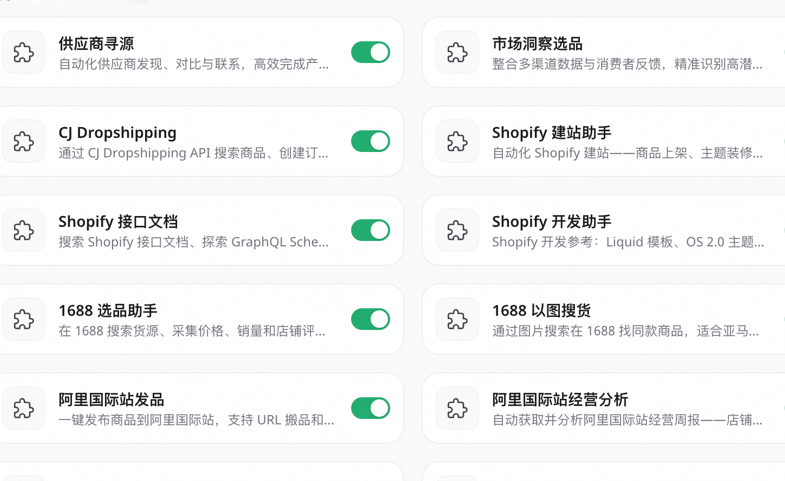
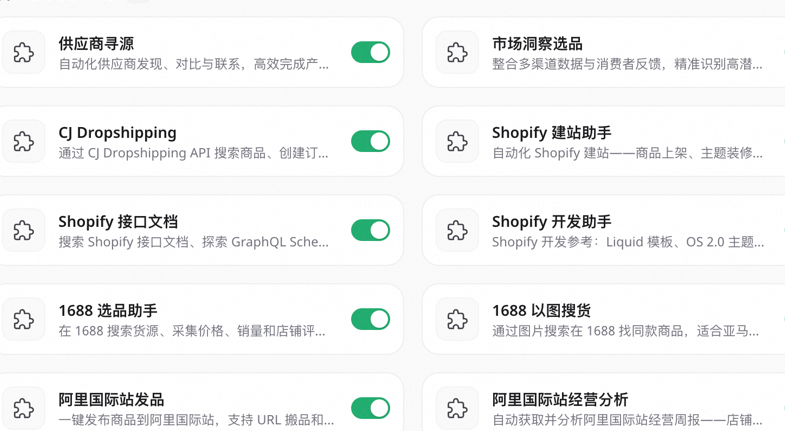
Trim shadow border + use CSS overflow-hidden + scale to remove white frame

diff --git a/index.html b/index.html
@@ -112,9 +112,9 @@
 <section class="py-10 sm:py-14 md:py-20 bg-white">
   <div class="max-w-6xl mx-auto px-4 sm:px-6 md:px-8">
     <div class="grid grid-cols-1 md:grid-cols-2 gap-8 md:gap-16 items-center">
-      <!-- Image with soft green glow -->
-      <div class="md:order-first">
-        <img src="技能广场.png" alt="技能广场" class="w-full h-auto rounded-3xl" loading="lazy" />
+      <!-- Image: skill marketplace -->
+      <div class="md:order-first overflow-hidden rounded-3xl">
+        <img src="技能广场.png" alt="技能广场" class="w-full h-auto scale-[1.04] origin-center" loading="lazy" />
       </div>
       <!-- Text content -->
       <div class="space-y-6 md:pl-8">
